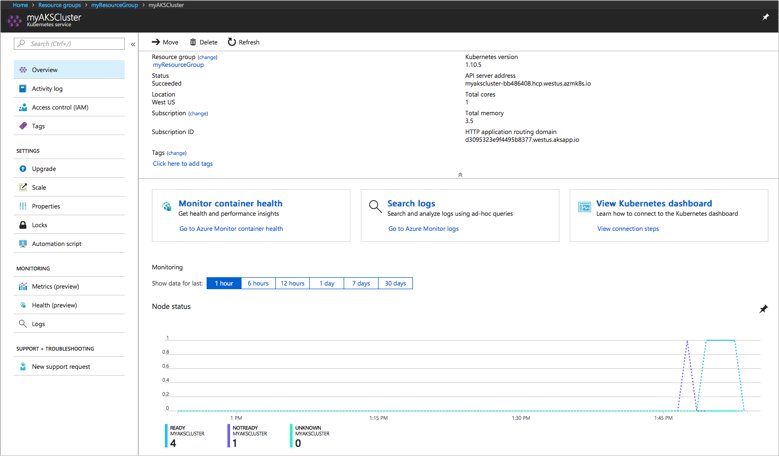
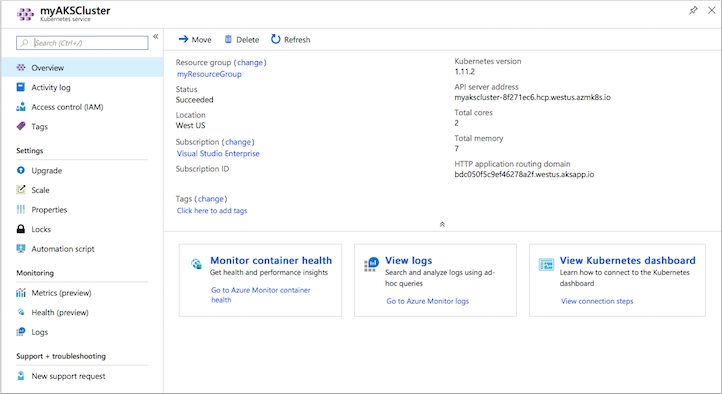
[AKS] Updates for Azure Monitor

diff --git a/articles/aks/kubernetes-walkthrough-portal.md b/articles/aks/kubernetes-walkthrough-portal.md
@@ -1,13 +1,12 @@
 ---
-title: Quickstart - Azure Kubernetes cluster portal quickstart
-description: Quickly learn to create a Kubernetes cluster for Linux containers in AKS with the Azure portal.
+title: Quickstart - Create an Azure Kubernetes Service cluster in the portal
+description: Learn how to use the Azure portal to quickly create an Azure Kubernetes Service (AKS) cluster, then deploy and monitor an application.
 services: container-service
 author: iainfoulds
-manager: jeconnoc
 
 ms.service: container-service
 ms.topic: quickstart
-ms.date: 07/27/2018
+ms.date: 09/24/2018
 ms.author: iainfou
 ms.custom: mvc
 ---
@@ -36,15 +35,13 @@ To create an AKS cluster, complete the following steps:
     - *SCALE*: Select a VM size for the AKS nodes. The VM size **cannot** be changed once an AKS cluster has been deployed.
         - Select the number of nodes to deploy into the cluster. For this quickstart, set **Node count** to *1*. Node count **can** be adjusted after the cluster has been deployed.
     
-    ![Create AKS cluster - provide basic information](media/kubernetes-walkthrough-portal/create-cluster-1.png)
+    ![Create AKS cluster - provide basic information](media/kubernetes-walkthrough-portal/create-cluster-basics.png)
 
     Select **Next: Authentication** when complete.
 
 1. **Authentication**: Configure the following options:
     - Create a new service principal or *Configure* to use an existing one. When using an existing SPN, you need to provide the SPN client ID and secret.
     - Enable the option for Kubernetes role-based access controls (RBAC). These controls provide more fine-grained control over access to the Kubernetes resources deployed in your AKS cluster.
-
-    ![Create AKS cluster - configure authentication](media/kubernetes-walkthrough-portal/create-cluster-2.png)
 
     Select **Next: Networking** when complete.
 
@@ -55,7 +52,7 @@ To create an AKS cluster, complete the following steps:
     
     Select **Next: Monitoring** when complete.
 
-1. When deploying an AKS cluster, Azure Container Insights can be configured to monitor health of the AKS cluster and pods running on the cluster. For more information on container health monitoring, see [Monitor Azure Kubernetes Service health][aks-monitor].
+1. When deploying an AKS cluster, Azure Monitor for containers can be configured to monitor the health of the AKS cluster and pods running on the cluster. For more information on container health monitoring, see [Monitor Azure Kubernetes Service health][aks-monitor].
 
     Select **Yes** to enable container monitoring and select an existing Log Analytics workspace, or create a new one.
     
@@ -89,7 +86,7 @@ The following example output shows the single node created in the previous steps
 
 ```
 NAME                       STATUS    ROLES     AGE       VERSION
-aks-agentpool-14693408-0   Ready     agent     10m       v1.10.5
+aks-agentpool-14693408-0   Ready     agent     10m       v1.11.2
 ```
 
 ## Run the application
@@ -205,11 +202,18 @@ Open a web browser to the external IP address of your service to see the Azure V
 
 When you created the cluster, container insights monitoring was enabled. This monitoring feature provides health metrics for both the AKS cluster and pods running on the cluster. For more information on container health monitoring, see [Monitor Azure Kubernetes Service health][aks-monitor].
 
-It may take a few minutes for this data to populate in the Azure portal. To see current status, uptime, and resource usage for the Azure Vote pods, browse back to the AKS resource in the Azure portal, such as *myAKSCluster*. Choose **Monitor Container Health** > select the **default** namespace > then select **Containers**.  The *azure-vote-back* and *azure-vote-front* containers are shown:
+It may take a few minutes for this data to populate in the Azure portal. To see current status, uptime, and resource usage for the Azure Vote pods, browse back to the AKS resource in the Azure portal, such as *myAKSCluster*. You can then access the health status as follows:
+
+1. Under **Monitoring** on the left-hand side, choose **Health (preview)**
+1. Across the top, choose to **+ Add Filter**
+1. Select *Namespace* as the property, then choose *\<All but kube-system\>*.
+1. Choose to view the **Containers**.
+
+The *azure-vote-back* and *azure-vote-front* containers are displayed, as shown in the following example:
 
 ![View the health of running containers in AKS](media/kubernetes-walkthrough-portal/monitor-containers.png)
 
-To see logs for the `azure-vote-front` pod, select the **View Logs** link on the right-hand side of the containers list. These logs include the *stdout* and *stderr* streams from the container.
+To see logs for the `azure-vote-front` pod, select the **View container logs** link on the right-hand side of the containers list. These logs include the *stdout* and *stderr* streams from the container.
 
 ![View the containers logs in AKS](media/kubernetes-walkthrough-portal/monitor-containers-logs.png)
 
@@ -220,6 +224,9 @@ When the cluster is no longer needed, delete the cluster resource, which deletes
 ```azurecli-interactive
 az aks delete --resource-group myResourceGroup --name myAKSCluster --no-wait
 ```
+
+> [!NOTE]
+> When you delete the cluster, the Azure Active Directory service principal used by the AKS cluster is not removed. For steps on how to remove the service principal, see [AKS service principal considerations and deletion][sp-delete].
 
 ## Get the code
 

diff --git a/articles/aks/kubernetes-walkthrough.md b/articles/aks/kubernetes-walkthrough.md
@@ -7,7 +7,7 @@ manager: jeconnoc
 
 ms.service: container-service
 ms.topic: quickstart
-ms.date: 07/31/2018
+ms.date: 09/24/2018
 ms.author: iainfou
 ms.custom: H1Hack27Feb2017, mvc, devcenter
 ---
@@ -22,7 +22,7 @@ This quickstart assumes a basic understanding of Kubernetes concepts, for detail
 
 [!INCLUDE [cloud-shell-try-it.md](../../includes/cloud-shell-try-it.md)]
 
-If you choose to install and use the CLI locally, this quickstart requires that you are running the Azure CLI version 2.0.43 or later. Run `az --version` to find the version. If you need to install or upgrade, see [Install Azure CLI][azure-cli-install].
+If you choose to install and use the CLI locally, this quickstart requires that you are running the Azure CLI version 2.0.46 or later. Run `az --version` to find the version. If you need to install or upgrade, see [Install Azure CLI][azure-cli-install].
 
 ## Create a resource group
 
@@ -51,7 +51,7 @@ Output:
 
 ## Create AKS cluster
 
-Use the [az aks create][az-aks-create] command to create an AKS cluster. The following example creates a cluster named *myAKSCluster* with one node. Container health monitoring is also enabled using the *--enable-addons monitoring* parameter. For more information on enabling the container health monitoring solution, see [Monitor Azure Kubernetes Service health][aks-monitor].
+Use the [az aks create][az-aks-create] command to create an AKS cluster. The following example creates a cluster named *myAKSCluster* with one node. Azure Monitor for containers is also enabled using the *--enable-addons monitoring* parameter. For more information on enabling the container health monitoring solution, see [Monitor Azure Kubernetes Service health][aks-monitor].
 
 ```azurecli-interactive
 az aks create --resource-group myAKSCluster --name myAKSCluster --node-count 1 --enable-addons monitoring --generate-ssh-keys
@@ -205,16 +205,19 @@ When the AKS cluster was created, monitoring was enabled to capture health metri
 To see current status, uptime, and resource usage for the Azure Vote pods, complete the following steps:
 
 1. Open a web browser to the Azure portal [https://portal.azure.com][azure-portal].
-1. Select your resource group, such as *myResourceGroup*, then select your AKS cluster, such as *myAKSCluster*. 
-1. Choose **Monitor container health** > select the **default** namespace > then select **Containers**.
+1. Select your resource group, such as *myResourceGroup*, then select your AKS cluster, such as *myAKSCluster*.
+1. Under **Monitoring** on the left-hand side, choose **Health (preview)**
+1. Across the top, choose to **+ Add Filter**
+1. Select *Namespace* as the property, then choose *\<All but kube-system\>*.
+1. Choose to view the **Containers**.
 
-It may take a few minutes for this data to populate in the Azure portal, as shown in the following example:
+The *azure-vote-back* and *azure-vote-front* containers are displayed, as shown in the following example:
 
-![Create AKS cluster one](media/kubernetes-walkthrough/view-container-health.png)
+![View the health of running containers in AKS](media/kubernetes-walkthrough-portal/monitor-containers.png)
 
-To see logs for the `azure-vote-front` pod, select the **View Logs** link on the right-hand side of the list of containers. These logs include the *stdout* and *stderr* streams from the container.
+To see logs for the `azure-vote-front` pod, select the **View container logs** link on the right-hand side of the containers list. These logs include the *stdout* and *stderr* streams from the container.
 
-![Create AKS cluster one](media/kubernetes-walkthrough/view-container-logs.png)
+![View the containers logs in AKS](media/kubernetes-walkthrough-portal/monitor-containers-logs.png)
 
 ## Delete cluster
 
